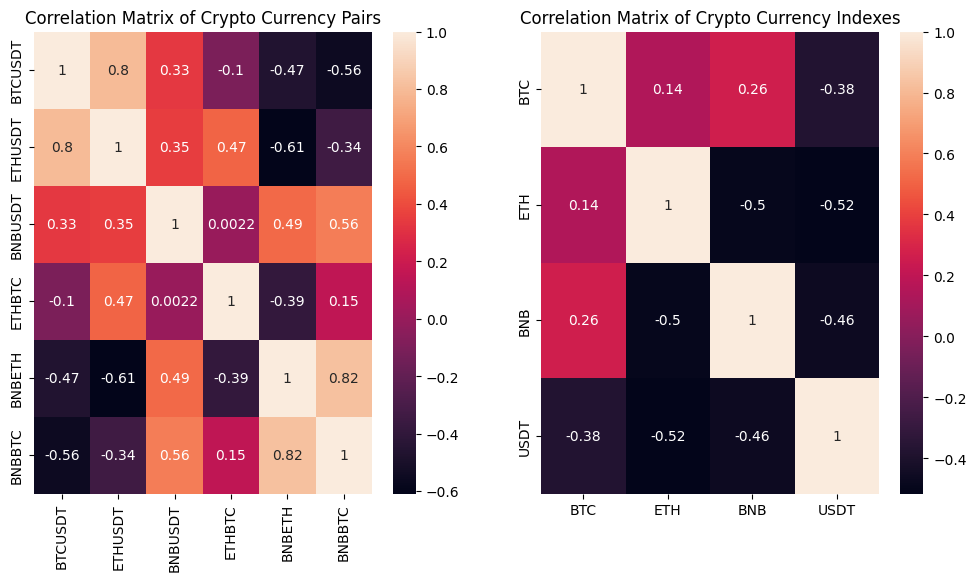
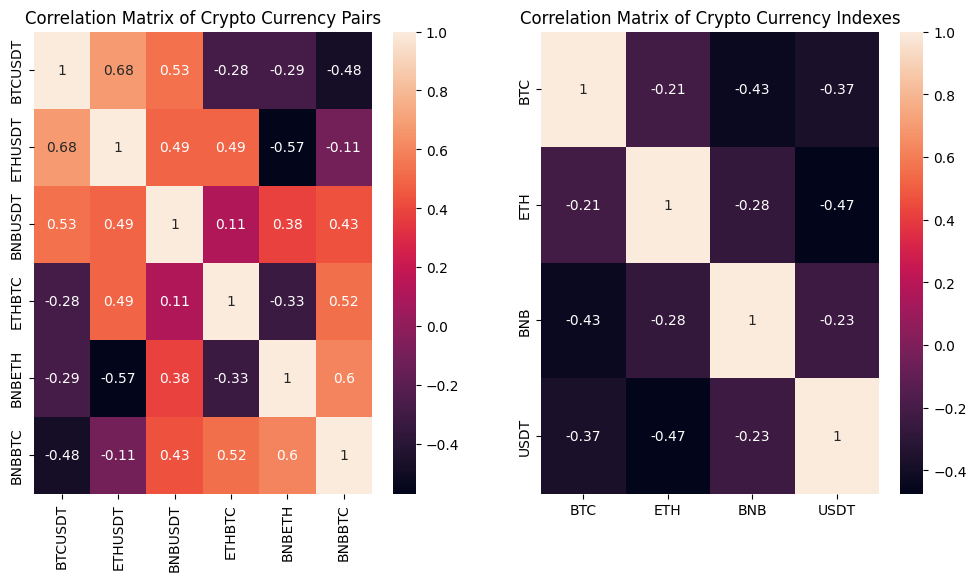
docs: readme update

diff --git a/readme.md b/readme.md
@@ -11,7 +11,7 @@
 - BNBBTC
  
 
-### Looking to calculate Relative Strength Index of Exponential Moving Average for each pair and then use this formula to get the indexes:
+### Looking to calculate Relative Strength Index for each pair and then use this formula for currency indexes:
 
 | Currency | Calculation                                |
 |----------|--------------------------------------------|
@@ -20,7 +20,7 @@
 | BNB      | (BNBUSDT + BNBETH +  BNBBTC) / 3        |
 | USDT     | ((100 - BTCUSDT) + (100 - ETHUSDT) + (100 - BNBUSDT)) / 3 |
 
-EMA smooths price and RSI is ranging from 0 to 100 so we are getting  standartized indexes.
+RSI is ranging from 0 to 100 so we are getting standartized indexes.
 
 *The same way we can calculate indexes for forex currencies*
 
